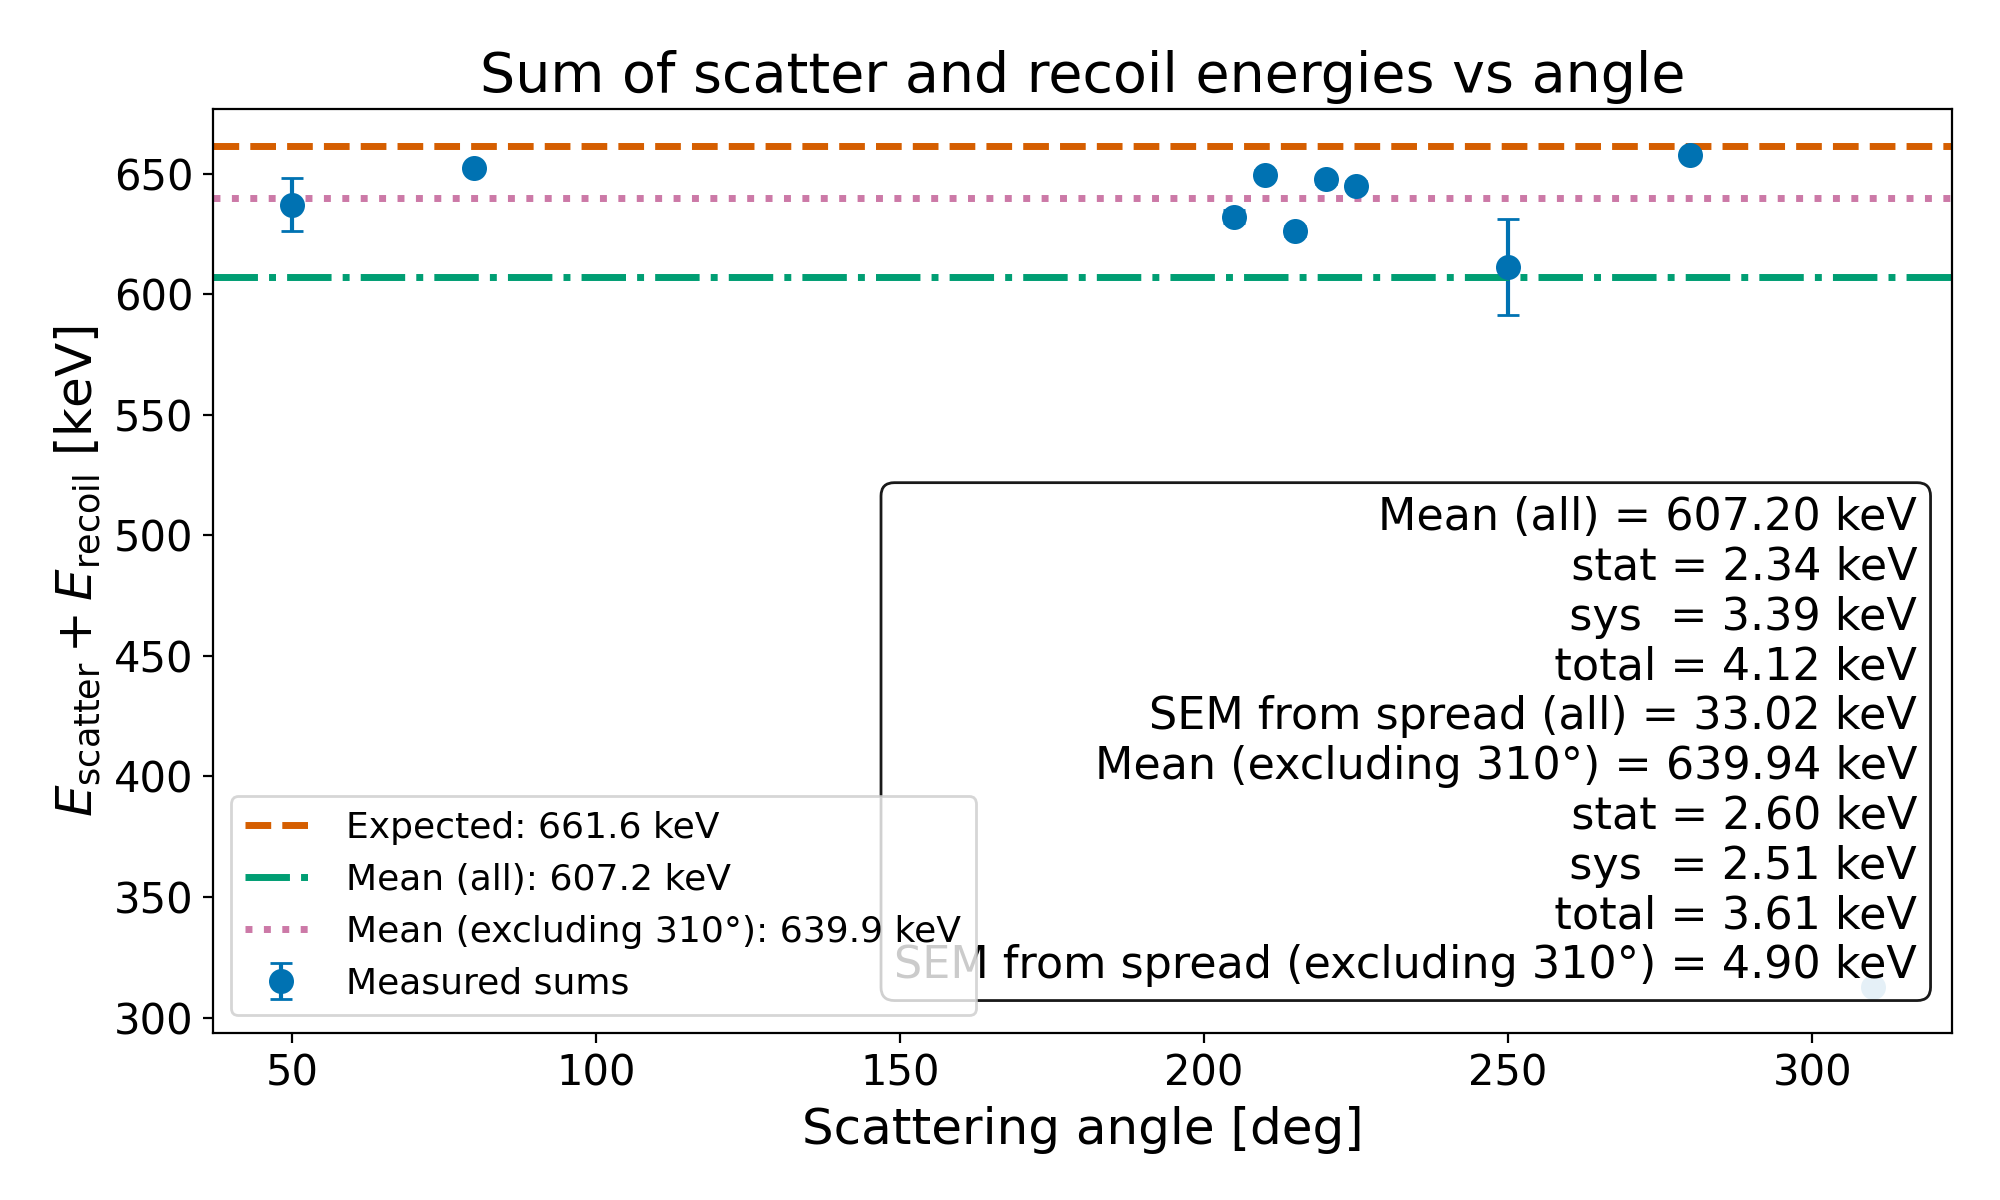
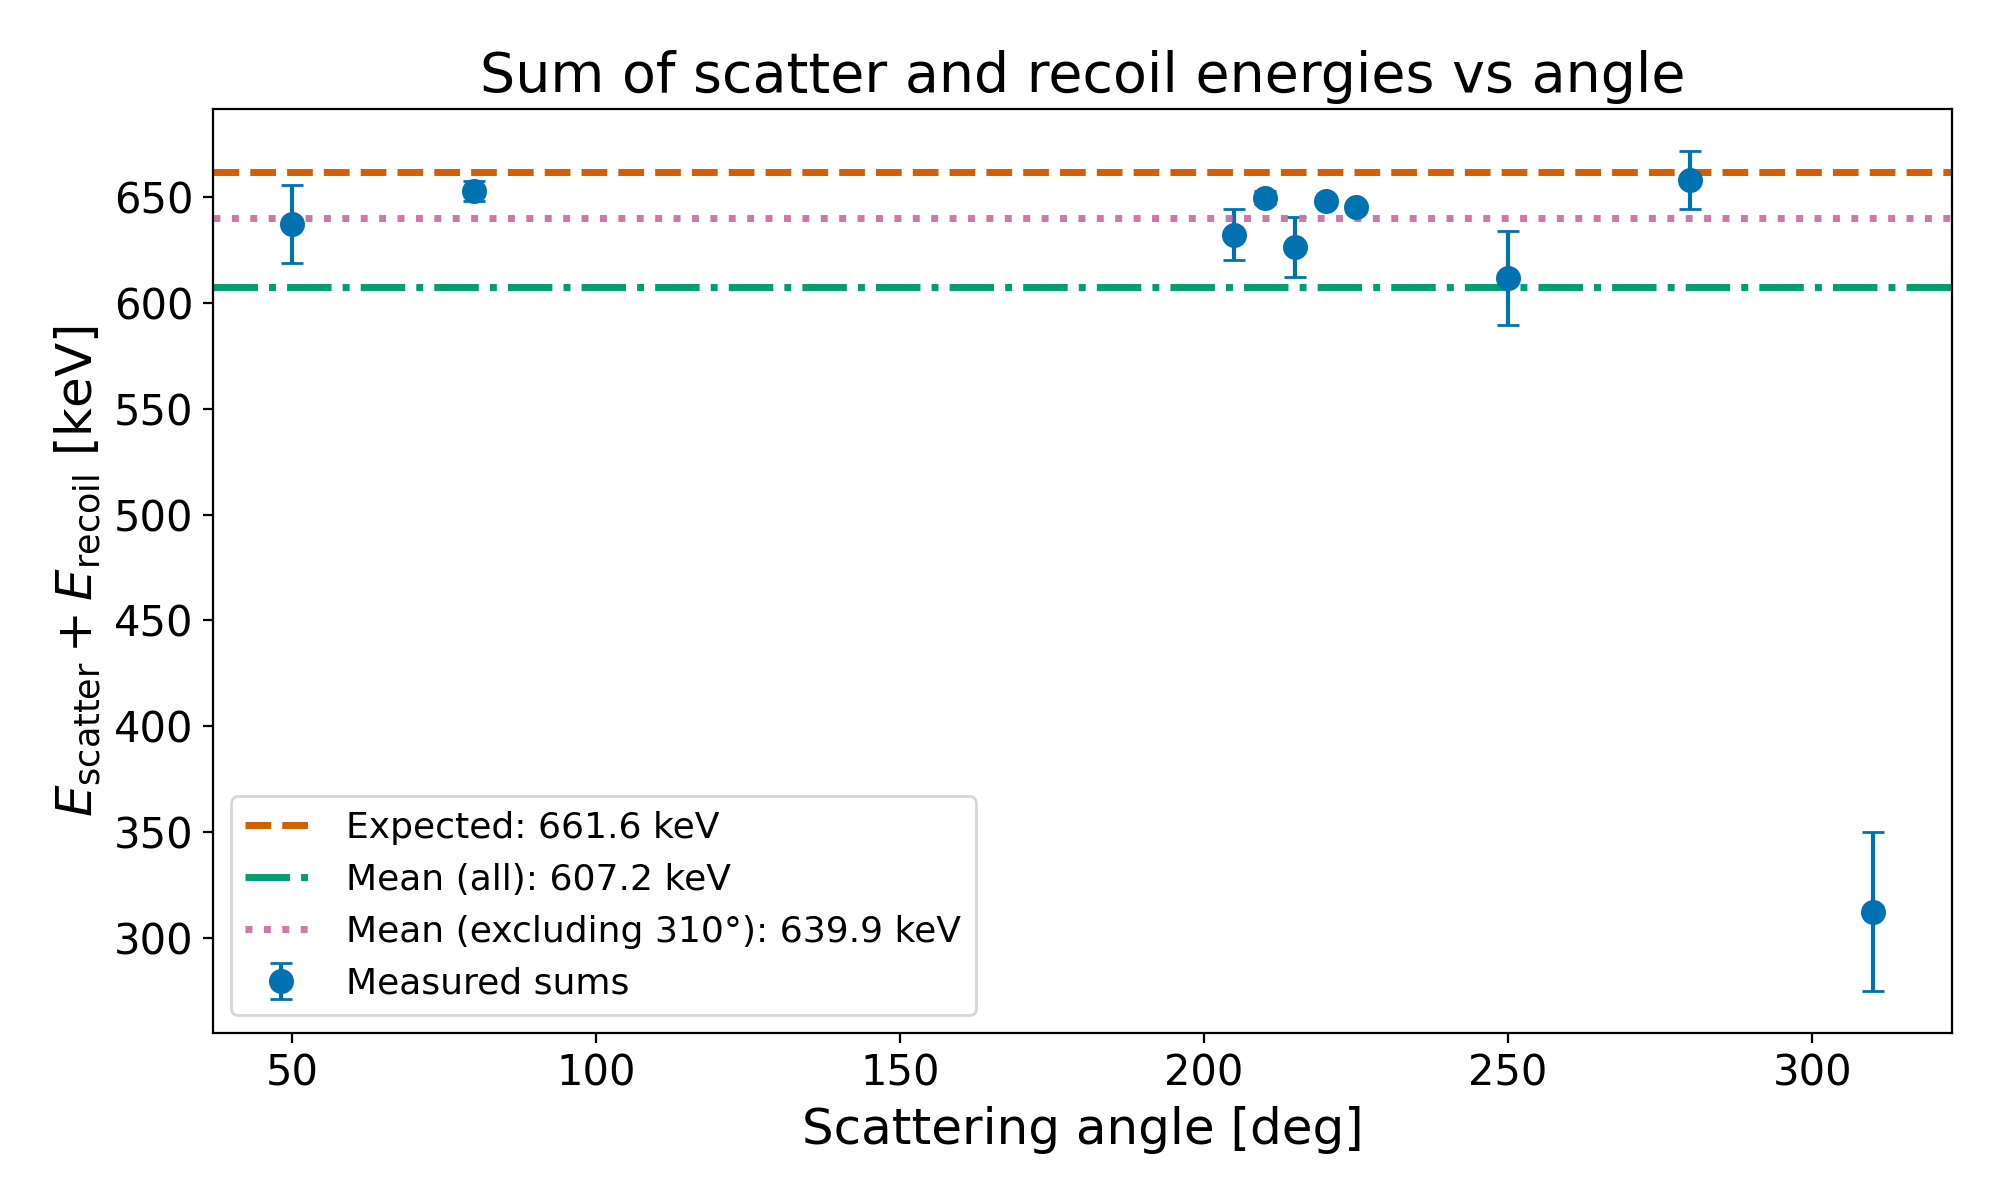
sad

diff --git a/Analysis/analysis.py b/Analysis/analysis.py
@@ -71,7 +71,7 @@ LOW_BIN_CUTOFFS = {
 SYSTEMATIC_CONFIG = {
     "enabled": True,
     "fit_half_width_values": [10, 12, 14],
-    "p_value_cut_values": [0.05],
+    "p_value_cut_values": [0.05, 0],
     "low_bin_cut_shifts": [-10, 0, 10],
     "cs_peak_rules": ["closest_to_max", "highest_count"],
 }
@@ -1801,8 +1801,8 @@ if __name__ == "__main__":
             print("=" * 80)
 
             print("\nBy angle:")
-            for angle in sorted(sys_summary["by_angle"].keys()):
-                sys_err = sys_summary["by_angle"][angle]["systematic_err_keV"]
+            for angle in sorted(sys_summary["sum_by_angle"].keys()):
+                sys_err = sys_summary["sum_by_angle"][angle]["systematic_err_keV"]
                 print(f"  angle = {angle:6.1f} deg: systematic = {sys_err:.2f} keV")
 
             if results["mean_results"] is not None:
